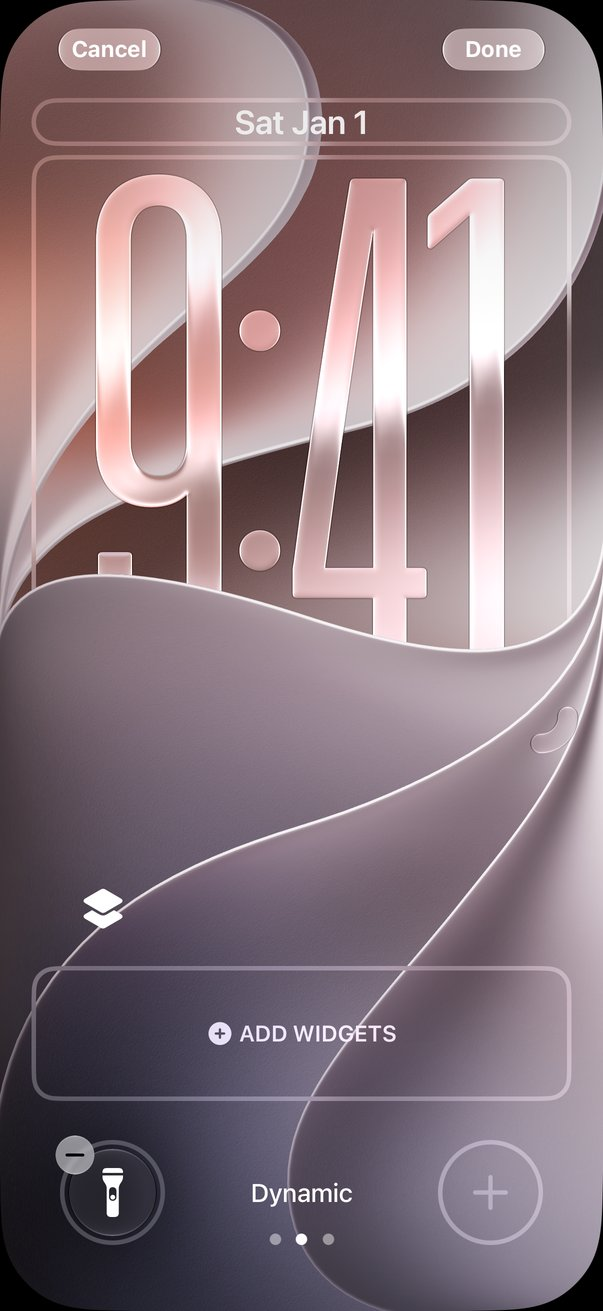
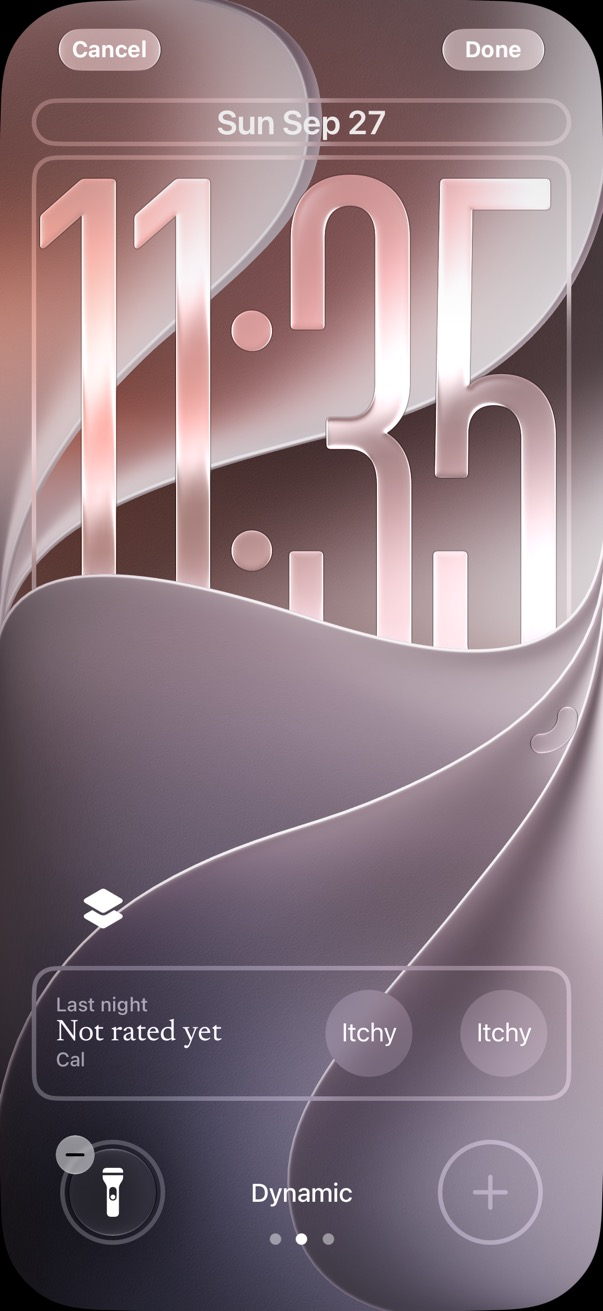
Docs: record design and UX decisions for the UX rebuild
DESIGN.md: bundle Newsreader 500, text never lighter than graphite,
system disabled look, SF Symbols regular only, system segmented control
allowed, outlined indigo scale with height encoding, and Lock Screen
widget steps re-captured on iOS 27.0.

UX.md: name switcher on Plan and Progress, no sign-in or post-log
reminders sheet, guides in Settings > Quick logging, routine steps in U2.

Point prompts README at docs/06-decisions.md and log every decision.

diff --git a/UX.md b/UX.md
@@ -52,6 +52,9 @@ Three tabs. Nothing else is top-level.
 On every tab
 - Header: child's name (tap to switch child or add one) on the left,
   Settings button on the right. Settings opens as a sheet.
+- On Today the child's name is in display type. On Plan and Progress it
+  is a small switcher in the navigation bar (row style, 600), not a big
+  title. Display type appears only on Today.
 - Plan and Progress also show a quick log bar above the tab bar: one big
   "Itchy" button and "Log…" (opens the full log sheet). Use
   tabViewBottomAccessory on iOS 26+, a bottom safe-area inset bar on
@@ -104,7 +107,8 @@ Day layout (7 AM – 8 PM), top to bottom:
    - Bowel movement and Mood open a small sheet; one tap on an option logs.
    - Note opens a sheet with a text field.
 5. Routine: today's steps with checks. If none: one row, "Set up your
-   routine" → Plan.
+   routine" → Plan. Until routine steps exist in the data model (U2),
+   Routine shows two rows, Morning and Evening.
 6. Today so far: timeline (time on the left, event, "by Dad" when more
    than one caregiver). Swipe to delete, tap to edit.
 7. This week: 7-night dot strip in one row. Tap → Progress.
@@ -123,9 +127,9 @@ Job: follow the care plan without thinking about it.
 
 Before a plan is imported:
 1. Routine: morning and evening steps the parent entered. "Edit routine"
-   at the end.
-2. Reminders: routine and check-in times with toggles.
-3. Care plan: appears only once import is built (Phase 4). Then it's one
+   at the end. Until routine steps exist (U2), two rows: Morning and
+   Evening.
+2. Care plan: appears only once import is built (Phase 4). Then it's one
    row: "Add your care plan. Import a PDF or photo from your provider."
 
 After import (Phase 4+), sections in this order, each hidden if empty:
@@ -158,7 +162,10 @@ Grouped List:
 2. Family: sign in, members, invite (Phase 2)
 3. Reminders: morning check-in, skin check-in, routine reminders
 4. Quick logging: Home Screen widget, Lock Screen widget, Action Button,
-   Siri, Control Center (each opens VisualSteps)
+   Siri, Control Center (each opens VisualSteps). This is the home for
+   every guide except onboarding's Home Screen widget. A guide or step
+   without a real screenshot or recording is hidden, never shown as a
+   placeholder.
 5. Your data: export everything (CSV and PDF), what's stored where
 6. Account: display name, sign out, delete account
 7. About: how the app works (what each measure means, in plain words),
@@ -178,9 +185,14 @@ Thin progress line at the top.
    line, then the system permission prompt. Skip is a clear secondary
    button.
 4. Log from anywhere: VisualSteps for the Home Screen widget; "Show me
-   the Action Button too" is optional. Skip is always visible.
+   the Action Button too" is optional. Skip is always visible. No other
+   guides here (Lock Screen, Siri, Control Center live in Settings >
+   Quick logging). A step without a real recording is hidden.
 5. Land on Today with the first-run hint.
-No account, paywall, or survey in onboarding.
+No sign-in step, no account, paywall, or survey in onboarding.
+
+Reminders live in two places only: onboarding step 3 and Settings >
+Reminders. No reminders sheet or prompt after the first log.
 
 ## 9. Legitimacy checklist
 - Reports say exactly what was measured and how ("Skin today is the
@@ -204,9 +216,10 @@ wins on looks; UX.md wins on structure.
 One prompt per session, same rules as docs/prompts/README.md.
 - U1. App shell: three tabs, headers, Settings sheet on every tab, quick
   log bar on Plan and Progress, navigation rules.
-- U2. Measures: add skinToday (daily) and flare body areas to the data
-  model with a schema migration and tests; evening skin check-in
-  notification with four action buttons.
+- U2. Measures: add skinToday (daily), flare body areas, and routine
+  steps (name, morning or evening) to the data model with a schema
+  migration and tests; evening skin check-in notification with four
+  action buttons.
 - U3. Today: day and night layouts exactly as section 4, all states.
 - U4. Onboarding: exactly as section 8, with VisualSteps.
 - U5. Plan and Progress: as sections 5 and 6 with what exists today.

diff --git a/DESIGN.md b/DESIGN.md
@@ -81,6 +81,18 @@ Severity and data scale (indigo density, light = calm, deep = hard day)
 | 4 | #56698F |
 | 5 hard | #2E3E5E |
 
+Drawing the scale (dots and bars)
+- Every dot and bar on the indigo scale gets a 0.75pt graphite outline
+  (nightSecondary at night). Steps 1–3 are under 3:1 on paper, so the
+  outline is what makes them visible.
+- Color is never the only signal: bar height also encodes the level
+  (step 1 shortest, step 5 tallest).
+- Calm = step 1.
+- A day with no skinToday answer is an empty outline: no fill, same
+  0.75pt graphite outline.
+- Never infer skin from itches or flares. Skin by day comes only from
+  the skinToday answer.
+
 Night palette (automatic 8 PM – 7 AM)
 | Token | Hex | Use |
 |---|---|---|
@@ -107,7 +119,8 @@ symptoms (itch, sleep, spread), never by how skin looks.
 Two families only.
 
 - Newsreader (serif, OFL, bundled, with optical sizes): editorial text
-  only. The child's name, screen titles, the lede sentence, report
+  only. Bundle weights 400 and 500; the 500 weight is required for
+  the title style. The child's name, screen titles, the lede sentence, report
   headlines, and longer reading (notes, care plan text, report prose).
   Fallback if Newsreader ever causes trouble: New York, Apple's own
   serif, which ships with iOS and supports Dynamic Type natively.
@@ -144,9 +157,11 @@ Size rules
   is 1.5x row. If two things look the same size, one of them is wrong.
 
 Contrast rules (three levels only)
-- Primary text: ink. Secondary text: graphite. There is no lighter text
-  color: anything lighter than graphite fails 4.5:1 on paper. Lighter
-  tones are for hairlines and disabled icons only, never words.
+- Primary text: ink. Secondary text: graphite. Active text is never
+  lighter than graphite: anything lighter fails 4.5:1 on paper.
+  Lighter tones are for hairlines only.
+- Disabled controls use the standard iOS disabled appearance
+  (.disabled()); don't invent a custom disabled color.
 
 Other rules
 - Left-aligned always; centered only inside buttons.
@@ -173,7 +188,11 @@ the work). Between sections 40pt. Title to lede 8pt. Lede to first
 section 32pt.
 
 Corners: 4pt on buttons and sheets, 2pt on images. Nothing is pill-shaped
-except the segmented night/day toggle if one exists.
+except the system segmented control.
+
+Segmented control: the system segmented control (Picker with
+.segmented style) is allowed, e.g. the Progress range picker (Week,
+Month, Since last visit). Tint it with our tokens; don't rebuild it.
 
 Buttons
 - Primary: ink fill, paper text, 4pt corners, full width, 56pt tall
@@ -192,7 +211,7 @@ on iOS 26+). Don't restyle them and don't imitate glass inside content.
 Content stays matte paper.
 
 ## 6. Icons, logo, and imagery
-- Icons: SF Symbols, regular or light weight, ink or graphite, used only
+- Icons: SF Symbols, regular weight only, ink or graphite, used only
   where a word alone is unclear. Never in colored containers.
 - Logo: a wordmark, "Cali Care," set in Newsreader Display 400. No symbol
   for now. The old leaf is deleted everywhere.
@@ -234,8 +253,11 @@ Capturing the assets
 Current step flows to build (verify each on the current iOS first):
 - Home Screen widget: touch and hold an empty spot → tap Edit → Add
   Widget → find Cali Care → pick a size → Add Widget → Done.
-- Lock Screen widget: touch and hold the Lock Screen → Customize → Lock
-  Screen → tap the widget area → pick Cali Care.
+- Lock Screen widget (captured on iOS 27.0 in the simulator,
+  widgetLock_ios27_step1–6): touch and hold the Lock Screen → Customize
+  (opens the Lock Screen editor directly; there is no Lock Screen / Home
+  Screen choice) → tap the widget area under the clock → tap CaliCare in
+  the list → tap a widget to add it → Done.
 - Action Button: Settings → Action Button → swipe to Shortcut → choose
   "Log itching."
 - Control Center: swipe down from the top-right → touch and hold → Add a

diff --git a/docs/06-decisions.md b/docs/06-decisions.md
@@ -115,3 +115,22 @@ Decisions that aren't obvious from the code, newest at the bottom. Add a dated e
   - **Rows per page:** 22 log or day rows, and up to 9 notes (3 lines each). The table cuts long notes short, and the full text is on the Notes pages.
   - **Default range:** since the last visit if known (nothing records visits until Phase 4's provider tracker), otherwise the last 4 weeks ending today.
   - **Where it lives:** the Weekly card screen → "Doctor report". Share PDF, or "Email to provider" when Mail is set up.
+
+## UX rebuild doc decisions (September 27, 2026)
+
+DESIGN.md
+- **Newsreader 500 is bundled.** The title style is Newsreader Display 500, so the 500 weight must ship alongside 400. Replaces the Notebook redesign note that 500 wasn't bundled.
+- **Active text is never lighter than graphite.** Disabled controls use the standard iOS disabled appearance instead of a custom color.
+- **SF Symbols use regular weight only.** "Light" is removed, matching the no-light-weights type rule.
+- **The system segmented control is allowed,** for example the Progress range picker (Week, Month, Since last visit).
+- **Indigo scale dots and bars get a 0.75pt graphite outline.** Steps 1–3 are under 3:1 on paper, so the outline carries visibility. Bar height also encodes the level, so color is never the only signal. Calm = step 1 (replaces the earlier choice of drawing levels as steps 2, 3, 5). A day with no skinToday answer is an empty outline. Skin is never inferred from itches or flares.
+- **Lock Screen widget steps re-captured on iOS 27.0 in the simulator** (`StepAssetTests.testWidgetLockSteps`, images in `design-review/redesign/steps/widgetLock_ios27_step1–6`). The flow: touch and hold → Customize (opens the Lock Screen editor directly) → tap the widget area under the clock → CaliCare → tap a widget → Done. DESIGN.md §7 now says this.
+
+UX.md
+- **Only Today uses display type for the child's name.** Plan and Progress show the name as a small switcher in the navigation bar (row style, 600).
+- **No sign-in step in onboarding.** The reminders sheet after the first log is removed; reminders live only in onboarding step 3 and Settings > Reminders. The Reminders section on Plan is removed to match.
+- **Visual steps:** onboarding shows only the Home Screen widget, with the Action Button optional. Every other guide lives in Settings > Quick logging. A step without a real screenshot or recording is hidden, never a placeholder.
+- **U2 also adds routine steps** (name, morning or evening). Until they exist, Routine on Today and Plan shows two rows: Morning and Evening.
+
+Other
+- **Decisions go to `docs/06-decisions.md`.** `docs/prompts/README.md` pointed to a `05-decisions-log.md` that doesn't exist.

diff --git a/docs/prompts/README.md b/docs/prompts/README.md
@@ -18,7 +18,7 @@ PROGRESS.md in the repo root tracks which prompts are done.
 6. Done means: builds cleanly, tests pass, "Done when" is met.
 7. When done: commit with a clear message, check the box in PROGRESS.md,
    add a one-line note under it (what was built, anything left over),
-   and add any new decisions to docs/05-decisions-log.md.
+   and add any new decisions to docs/06-decisions.md.
 8. Then STOP. Never start the next prompt on your own.
 
 ## Standard kickoff (paste this after every /clear)
